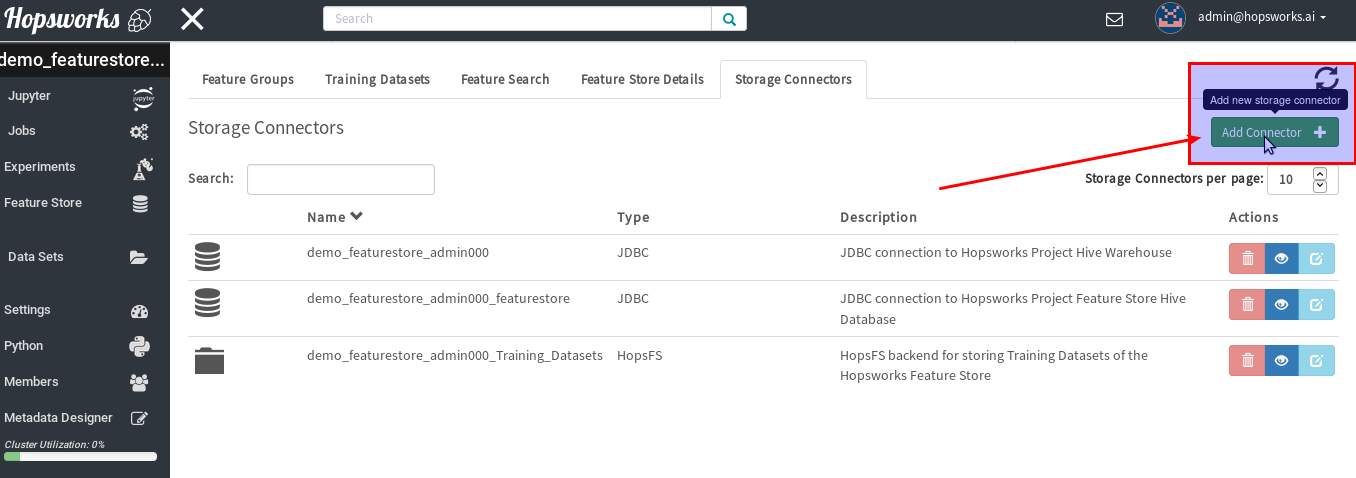
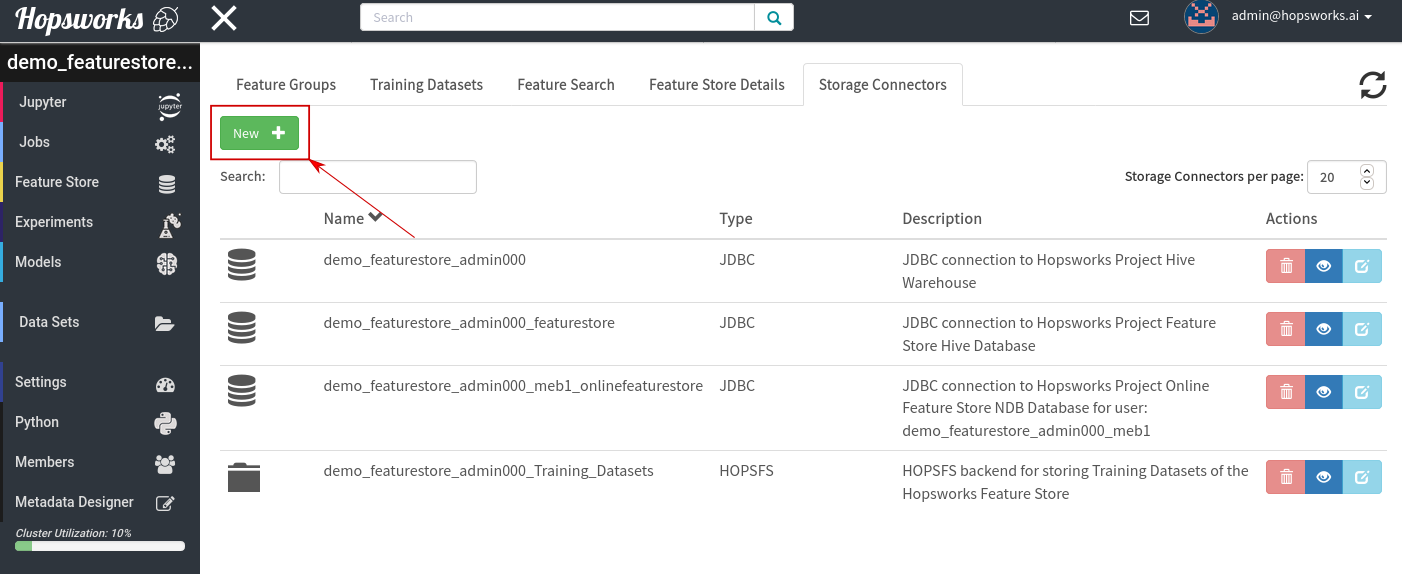
[HOPSWORKS-1552] Add documentation for creating a S3 storage connector

diff --git a/docs/featurestore/featurestore.rst b/docs/featurestore/featurestore.rst
@@ -624,10 +624,12 @@ The code-snippets below illustrates the different APIs for creating a training d
 Configuring Storage Connectors for the Feature Store
 ----------------------------------------------------
 
-By default, a feature store created in Hopsworks will have three storage connectors:
+Storage connectors allow users to integrate Hopsworks Feature Store with external systems such as S3 or RedShift.
+By default, a feature store created in Hopsworks has three storage connectors:
 
 - `projectname`, a JDBC connector for the project's general-purpose Hive database
 - `projectname_featurestore`, a JDBC connector for the project's feature store database (this is where cached feature groups are stored)
+- `projectname_username_onlinefeaturestore`, a JDBC connector for the project's online feature store. 
 - `projectname_Training_Datasets`, a HopsFS connector for storing training datasets inside the project
 
 To configure new storage connectors, e.g S3, HopsFS, or JDBC connectors, use the form available in the feature registry UI.
@@ -641,6 +643,31 @@ To configure new storage connectors, e.g S3, HopsFS, or JDBC connectors, use the
     :figclass: align-center
 
     Storage Connectors can be configured from the Feature Store UI in Hopsworks.
+
+
+**Configure S3 Storage connector**
+
+To be able to use Hops util library to ingest feature group data from S3 or export training datasets to S3 you need to create a storage connector. 
+
+By clicking on the `New` button shown in the figure above, you will be prompted with the dialog to create a new storage connector. 
+Here you can add the connector name, an optional description and pick the type of the connector. When selecting `S3 Connector`, 3 additional options will appear. At this stage you will be able to add the bucket name, your AWS access key and the S3 secret key. 
+
+The Hops util libraries will use those credentials to configure *Apache Spark* when reading and/or writing to the bucket.
+
+.. _s3_sc.png: ../_images/s3_sc.png
+.. figure:: ../imgs/feature_store/s3_sc.png
+    :alt: New S3 storage connector can be configured from the Feature Store UI. 
+    :target: `s3_sc.png`_
+    :align: center
+    :scale: 55 %
+    :figclass: align-center
+
+    S3 Storage connector can be configured from the Feature Store UI in Hopsworks. 
+
+If you don't want to use the AWS access key and secret key, you can configure the Hopsworks nodes with an `Instance Role <https://docs.aws.amazon.com/AWSEC2/latest/UserGuide/iam-roles-for-amazon-ec2.html>`_ which is allowed to read/write the S3 buckets. If you are using the an *Instance Role* you can leave the AWS access key and secret key empty.
+
+.. note::
+    If you are an administrator you can enforce an `Instance Role` only policy by setting the `aws_instance_role` setting to true in the variables configuration. You can also set the attribute `install/aws/instance_role` to true in the cluster definition.
 
 
 Incremental Ingestion to the Feature Store using Apache Hudi
